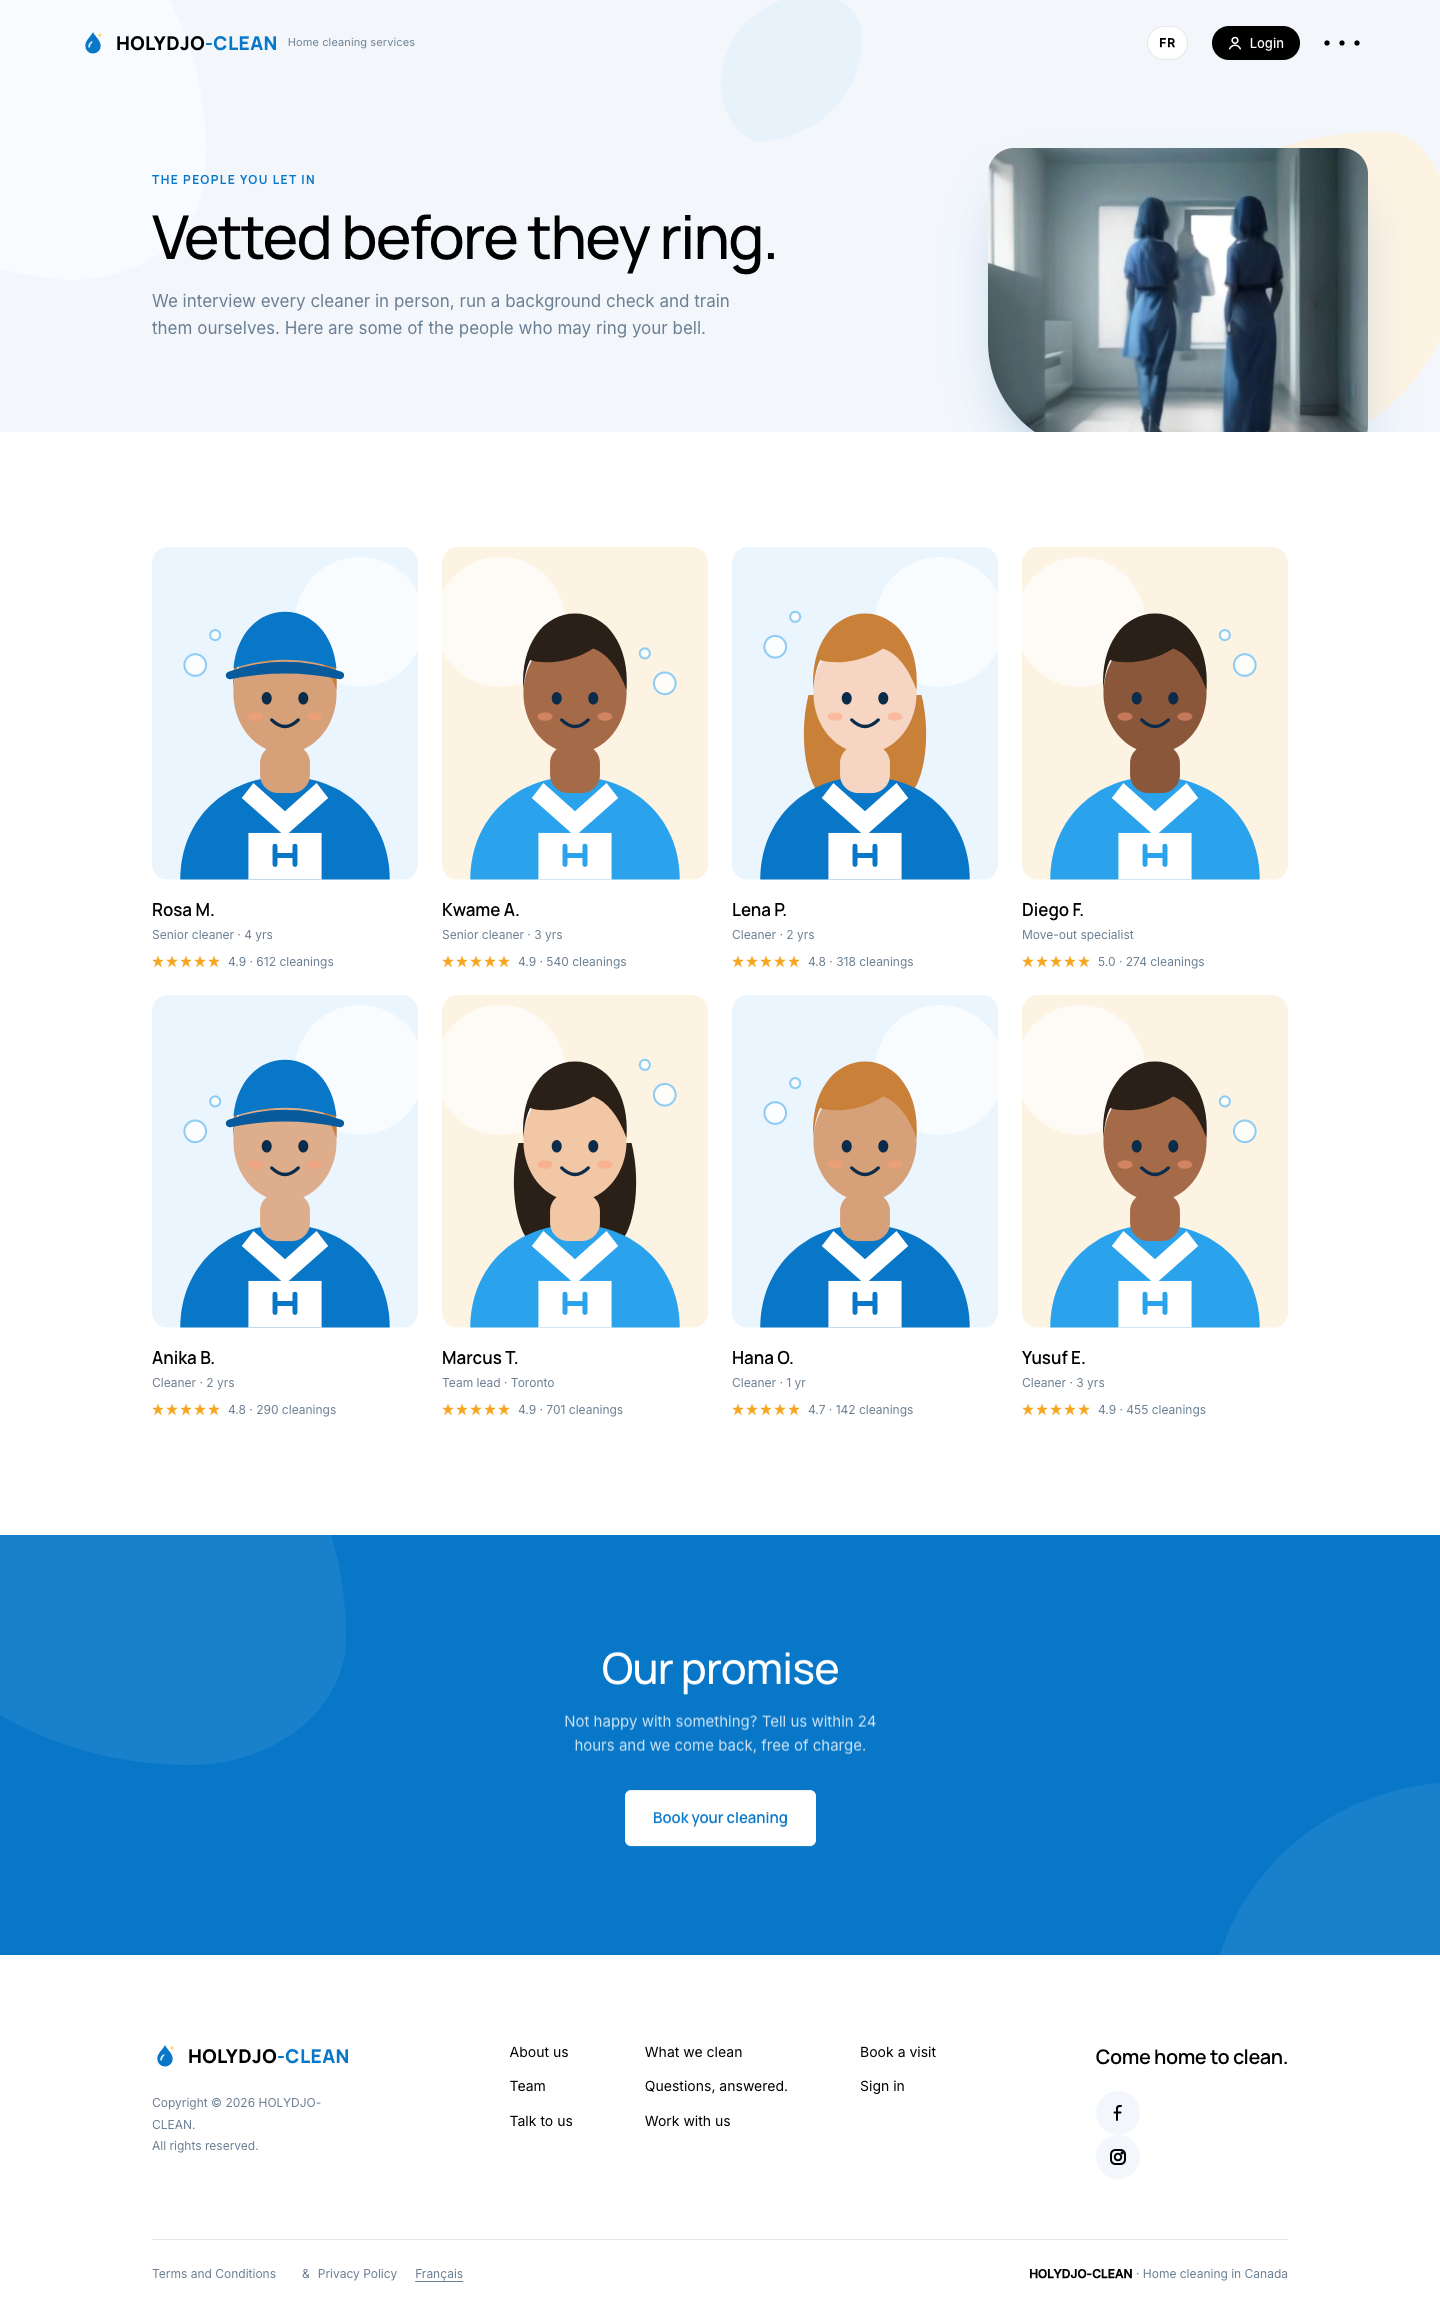
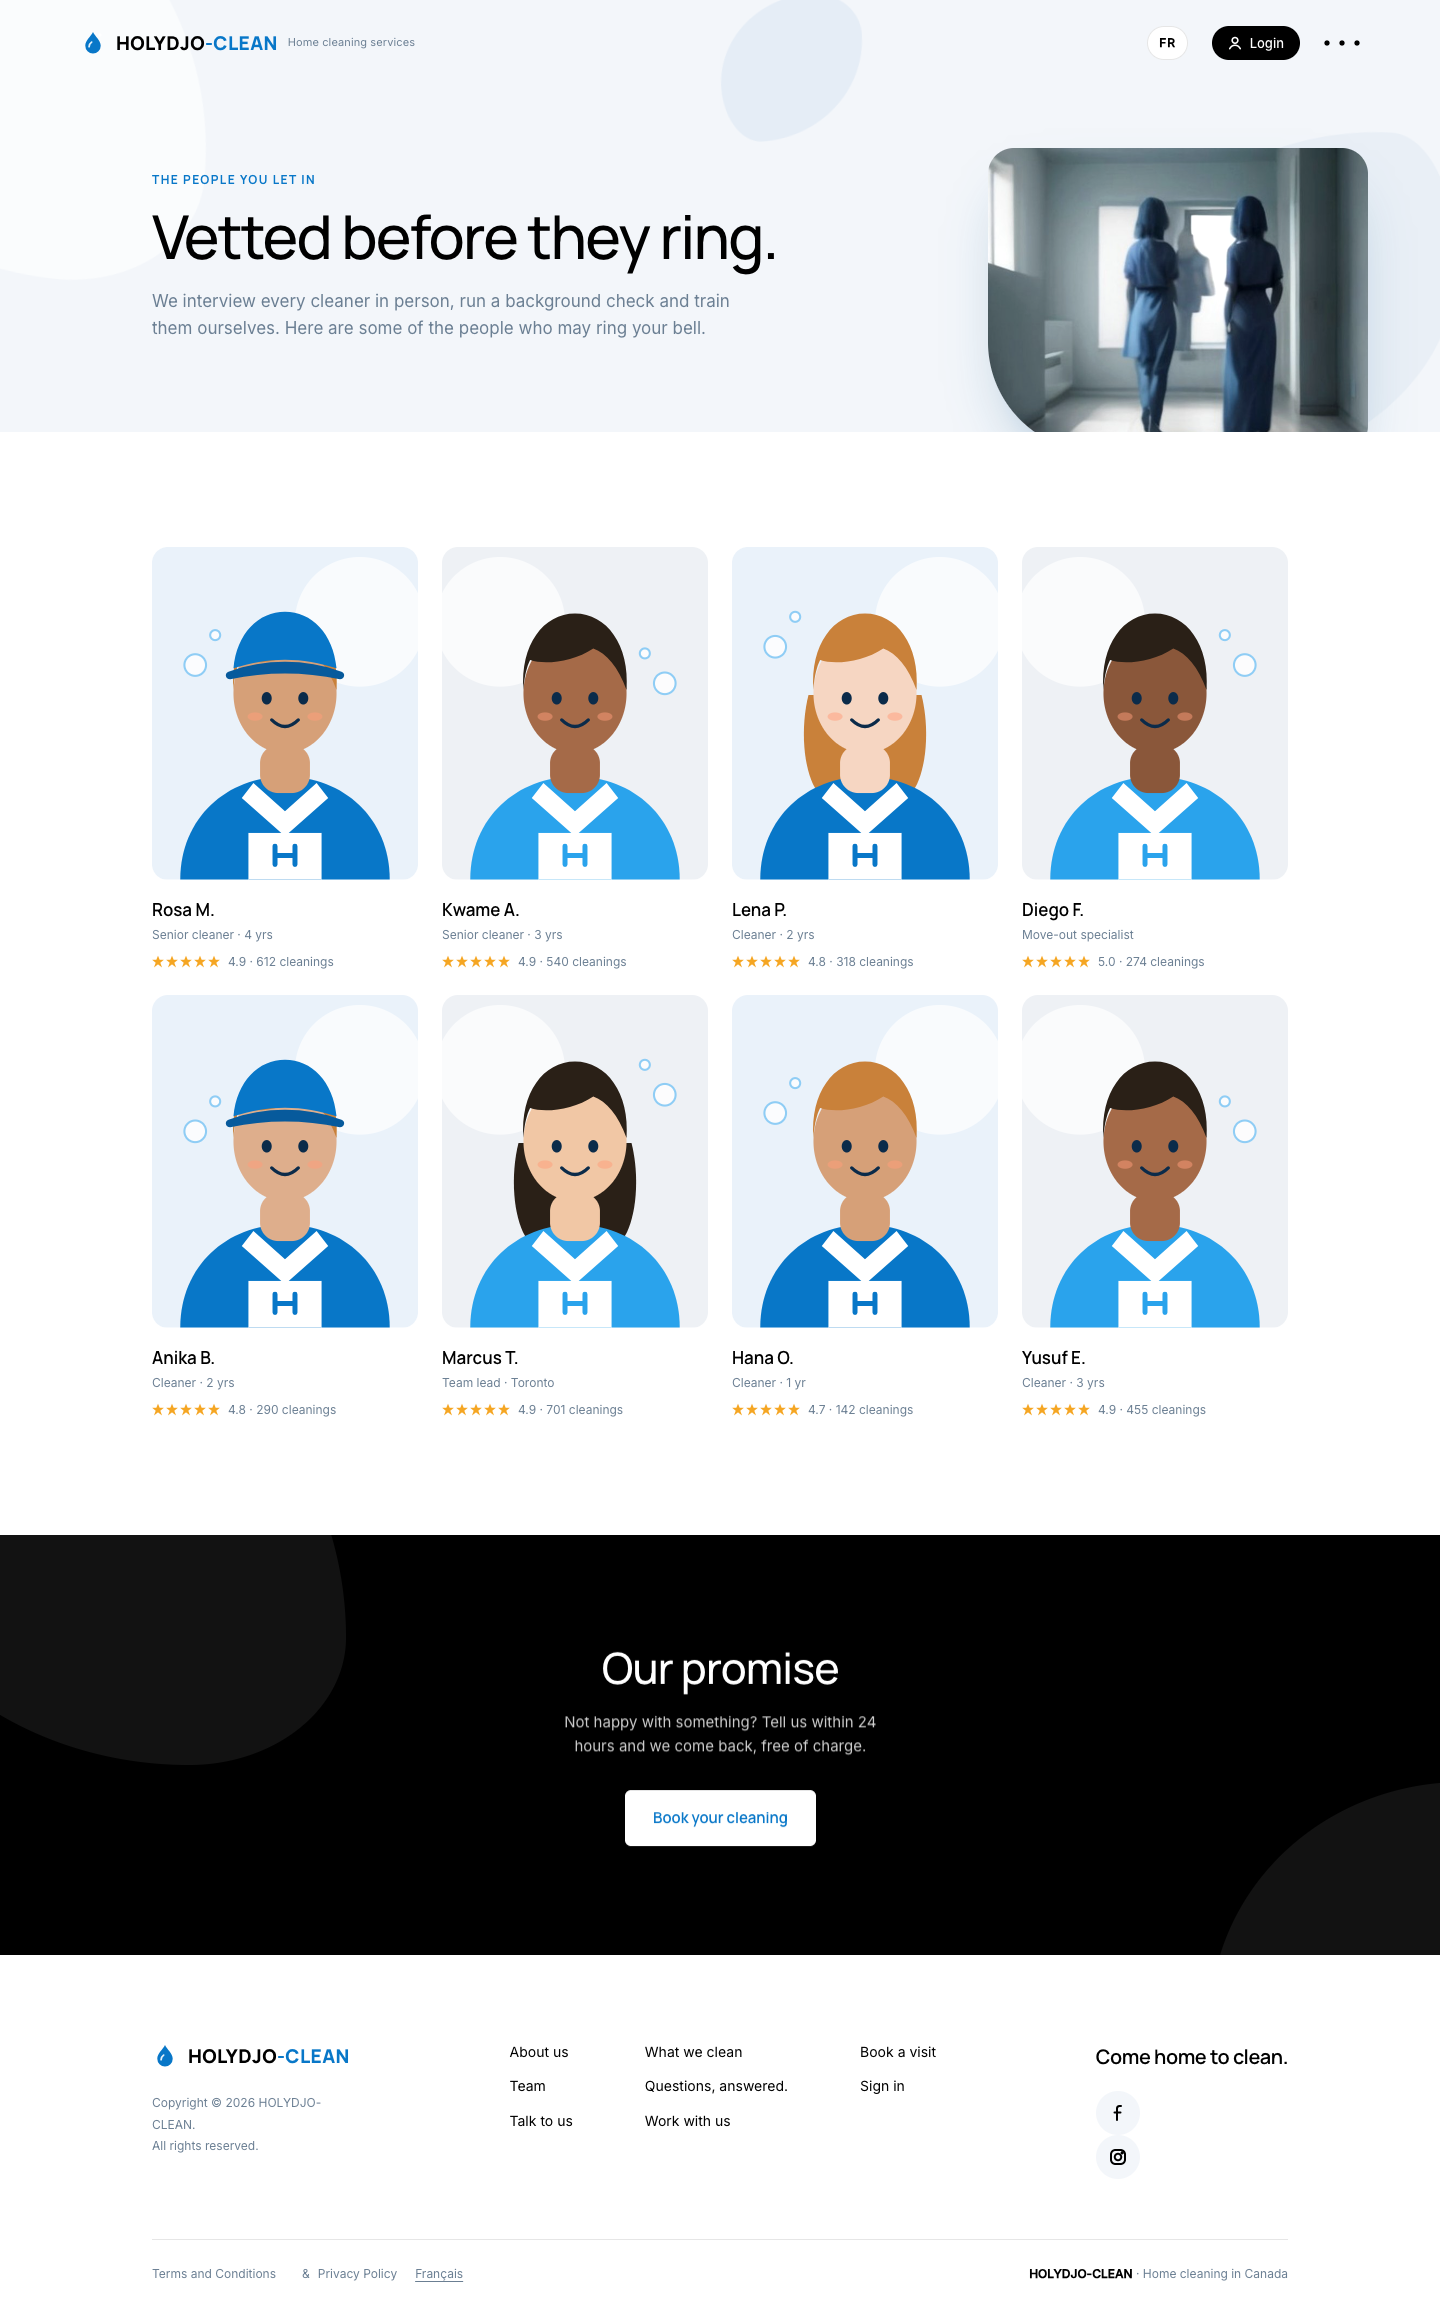
Switch the brand to blue and black
Use black for the closing CTA band and cool grey-blue tints in place of
the cream and sunny accent. Recolour the mascot's mop, sparkles, avatars
and favicon to the blue/black palette, and give the photographs a cool
blue grade. Refresh the report and screenshots.

Changed region(s): [[0.0, 0.652, 1.0, 0.8693]]

diff --git a/src/illustrations.js b/src/illustrations.js
@@ -3,11 +3,11 @@
   Every picture on the site is drawn here from scratch for the brand:
   a sky-blue water-drop mascot with a mop, three scenes, feature icons,
   team portraits, the logo mark and the loader mark.
-  Palette: sky blue #0877c8 / #4db8f5 / #a9e2ff, white, and a sunny accent #ffd36b.
+  Palette: blue #0877c8 / #4db8f5 / #a9e2ff, black #000 and white.
 */
 
 /* Logo mark: a water drop with a shine. Coloured by CSS through currentColor. */
-export const logoMark = `<svg class="mark" viewBox="0 0 32 32" xmlns="http://www.w3.org/2000/svg" aria-hidden="true"><path d="M16 2.5c-2.6 5.6-9.5 10.4-9.5 17a9.5 9.5 0 0019 0c0-6.600-6.900-11.400-9.500-17z" fill="currentColor"/><path d="M11.200 20.500c0-2.400 1.300-4.300 3.100-5.600" fill="none" stroke="#fff" stroke-width="2.200" stroke-linecap="round" opacity=".9"/><path d="M24.500 3l.9 2.300 2.300.9-2.300.9-.9 2.300-.9-2.300-2.300-.9 2.300-.9z" fill="#ffd36b"/></svg>`;
+export const logoMark = `<svg class="mark" viewBox="0 0 32 32" xmlns="http://www.w3.org/2000/svg" aria-hidden="true"><path d="M16 2.5c-2.6 5.6-9.5 10.4-9.5 17a9.5 9.5 0 0019 0c0-6.600-6.900-11.400-9.500-17z" fill="currentColor"/><path d="M11.200 20.500c0-2.400 1.300-4.300 3.100-5.600" fill="none" stroke="#fff" stroke-width="2.200" stroke-linecap="round" opacity=".9"/><path d="M24.500 3l.9 2.300 2.300.9-2.300.9-.9 2.300-.9-2.300-2.300-.9 2.300-.9z" fill="#fff"/></svg>`;
 
 /* Mascot: "Djo", a water drop in a white apron holding a mop. */
 export const mascot = `
@@ -19,9 +19,9 @@ export const mascot = `
       <stop offset="1" stop-color="#1c95e3"/>
     </linearGradient>
     <linearGradient id="m-pole" x1="0" y1="0" x2="1" y2="0">
-      <stop stop-color="#f0b03a"/>
-      <stop offset=".5" stop-color="#ffe7ad"/>
-      <stop offset="1" stop-color="#e59f24"/>
+      <stop stop-color="#2b2b2b"/>
+      <stop offset=".5" stop-color="#9aa4ad"/>
+      <stop offset="1" stop-color="#0b0b0b"/>
     </linearGradient>
     <linearGradient id="m-apron" x1="0" y1="0" x2="0" y2="1">
       <stop stop-color="#ffffff"/>
@@ -110,7 +110,7 @@ export const mascot = `
   </g>
 
   <!-- sparkles -->
-  <g class="m-spark" fill="#ffd36b">
+  <g class="m-spark" fill="#0877c8">
     <path d="M500 462l6 16 16 6-16 6-6 16-6-16-16-6 16-6z"/>
     <path d="M196 96l5 13 13 5-13 5-5 13-5-13-13-5 13-5z"/>
     <path d="M40 330l4 11 11 4-11 4-4 11-4-11-11-4 11-4z"/>
@@ -182,7 +182,7 @@ export function portrait(seed, tone = '#0877c8') {
   const hairs = ['#2a2017', '#5a3b22', '#0b2b4a', '#c9813a', '#151515', '#8c4a2f'];
   const skin = skins[seed % skins.length];
   const hair = hairs[(seed * 3) % hairs.length];
-  const bg = seed % 2 ? '#eaf5fd' : '#fdf3e3';
+  const bg = seed % 2 ? '#eaf2fa' : '#eef1f5';
   const long = seed % 3 === 0;
   const cap = seed % 4 === 1;
   return `
@@ -234,5 +234,5 @@ export const loaderMark = `
   <ellipse cx="62" cy="174" rx="10" ry="6" fill="#ff9d7a" opacity=".6"/>
   <ellipse cx="142" cy="174" rx="10" ry="6" fill="#ff9d7a" opacity=".6"/>
   <path d="M88 176q14 18 28 0z" fill="#0b2b4a"/>
-  <path d="M164 40l5 13 13 5-13 5-5 13-5-13-13-5 13-5z" fill="#ffd36b"/>
+  <path d="M164 40l5 13 13 5-13 5-5 13-5-13-13-5 13-5z" fill="#8fcdf5"/>
 </svg>`;

diff --git a/src/styles/main.css b/src/styles/main.css
@@ -1,6 +1,6 @@
 /* ------------------------------------------------------------------
    HOLYDJO-CLEAN — design system
-   Sky blue #0877c8 on an airy blue-white #f4f8fd, with a sunny accent.
+   Blue #0877c8 and black #000 on an airy blue-white canvas.
    Soft organic blobs, geometric headings, pill controls.
 ------------------------------------------------------------------- */
 
@@ -8,12 +8,12 @@
   --blue: #0877c8;
   --blue-dark: #075a9c;
   --blue-light: #8fcdf5;
-  --bg: #f3f7fc;
-  --bg-2: #f8fbff;
-  --bg-3: #e8f2fb;
-  --rose: #fdf3e3;
-  --pink: #ffe2ad;
-  --sun: #ffd36b;
+  --bg: #f3f6fa;
+  --bg-2: #fafcfd;
+  --bg-3: #e5edf6;
+  --rose: #e9eff6;
+  --pink: #dbe8f4;
+  --sun: #0877c8;
   --ink: #000;
   --ink-2: #393939;
   --muted: #6b7f93;
@@ -1171,6 +1171,7 @@ p {
   width: 100%;
   height: 100%;
   object-fit: cover;
+  filter: saturate(0.8) contrast(1.04) brightness(1.01);
 }
 
 .section-half-color .color-block .illus .photo-img {
@@ -1197,7 +1198,7 @@ p {
   content: '';
   position: absolute;
   inset: 0;
-  background: linear-gradient(155deg, rgba(8, 119, 200, 0.08), rgba(255, 226, 173, 0.1));
+  background: linear-gradient(155deg, rgba(8, 119, 200, 0.12), rgba(0, 0, 0, 0.08));
   mix-blend-mode: soft-light;
   pointer-events: none;
 }
@@ -1428,7 +1429,7 @@ p {
 }
 
 .section-booking .blue {
-  background: var(--blue);
+  background: var(--ink);
   color: var(--white);
   min-height: 420px;
   display: flex;

diff --git a/REMAKE_REPORT.md b/REMAKE_REPORT.md
@@ -6,7 +6,7 @@
   Mention, 1 May 2019.
 - **Target repository:** <https://github.com/Holydjo/CLEANINGDEEPSEEK>
 - **Remake:** HOLYDJO-CLEAN, a home cleaning company in Canada.
-- **Completed:** 19 November 2026.
+- **Completed:** 20 November 2026.
 
 The reference is used as a design study only. No Oboosho photograph, illustration, person,
 logo, or copy is used on the site. The only places the name Oboosho appears are this report,
@@ -46,10 +46,12 @@ navigation and the section names in the bundle.
 
 ### Brand and palette
 
-The brief's colour field was blank. The remake uses the palette already established for
-HOLYDJO-CLEAN in its repository: sky blue `#0877c8`, deep blue `#075a9c`, pale blue `#8fcdf5`,
-warm sun `#ffd36b`, and an airy blue-white canvas `#f3f7fc`. The reference's indigo, lavender
-and rose are not used as brand colours.
+The brief specifies blue and black. No hex values were supplied, so the remake uses the
+established HOLYDJO-CLEAN blue `#0877c8`, deep blue `#075a9c`, pale blue `#8fcdf5` and black
+`#000000` on an airy blue-white canvas `#f3f6fa`. The first draft's sunny third accent has been
+removed; the photographic grade is cool daylight, and black carries the booking bar, login pill
+and the closing CTA band. The reference's indigo, lavender and rose are not used as brand
+colours.
 
 ### Copy
 
@@ -80,7 +82,7 @@ the repository and no hotlink to Oboosho or Awwwards.
 | Slot | Reference picture | New picture | Shape, light and colour |
 | --- | --- | --- | --- |
 | Hero, right | Glossy 3D purple dinosaur with a vacuum, bottom-anchored, soft studio shadow | “Djo”, an original water-drop mascot in an apron with a mop, bottom-anchored, soft blue shadow | Same tall right-hand placement and bottom crop; same soft studio falloff; brand blue instead of purple |
-| Meet, right | `clean.jpg`, a cleaning scene in the colour block | New sunlit living room, linen sofa and plant, 5:4 card | Same right-hand colour-block slot; warm window light with cool shadows |
+| Meet, right | `clean.jpg`, a cleaning scene in the colour block | New sunlit living room, linen sofa and plant, 5:4 card | Same right-hand colour-block slot; soft window light with a cool grade |
 | Services, left | Cleaning still life in a tall frame | New close-up of a gloved hand polishing a table with a blue cloth, 4:5 | Same tall portrait slot; soft daylight, blue accent |
 | Cleaners, right | `hand.png`, a cut-out cleaning hand | New pair of cleaners in blue uniforms, seen from behind, in a circle | Same circular right-hand slot; natural light, anonymous faces |
 | Features | Four outlined icons | Four new two-tone icons (booking, shield, key, price tag) | Same grid, same optical weight |
@@ -94,7 +96,7 @@ the repository and no hotlink to Oboosho or Awwwards.
 
 The picture set is documented in [docs/PICTURES.md](./docs/PICTURES.md). The scene photographs
 were generated for this project with an open text-to-image model, then cropped to the slot and
-colour-graded. The brief supplied no photo folder and none was present in the workspace, so the
+colour-graded for the blue and black brand. The brief supplied no photo folder and none was present in the workspace, so the
 photographs are stand-ins for the client's own team and client photography. They can be replaced
 file-for-file in `public/photos/` without layout changes. The mascot, logo, icons and team
 avatars are original vector drawings; the avatars are illustrations, not photographs of real

diff --git a/README.md b/README.md
@@ -43,7 +43,7 @@ Lenis for smooth scrolling. No framework and no backend.
 
 - **Name and logo.** The name and the logo wordmark are set in `brand` in `src/data.js`. The
   water-drop logo mark is `logoMark` in `src/illustrations.js`.
-- **Colours.** Sky blue and white with a sunny accent. The tokens are at the top of
+- **Colours.** Blue and black on white and cool grey. The tokens are at the top of
   `src/styles/main.css`.
 - **Typefaces.** Manrope and Inter, loaded from Google Fonts.
 
@@ -51,9 +51,10 @@ Lenis for smooth scrolling. No framework and no backend.
 | --- | --- | --- |
 | `--blue` | `#0877c8` | Buttons, links, logo |
 | `--blue-dark` | `#075a9c` | Hover and deep accents |
-| `--blue-light` | `#8fcdf5` | Outlines and soft accents |
-| `--bg` | `#f3f7fc` | Page tint |
-| `--pink` | `#ffe2ad` | Sunny accent blob |
+| `--blue-light` | `#8fcdf5` | Outlines, icons and soft accents |
+| `--ink` | `#000000` | Type, booking bar, login pill, CTA band |
+| `--bg` | `#f3f6fa` | Page tint |
+| `--rose` | `#e9eff6` | Cool note and blob tint |
 
 ## Pictures
 

diff --git a/docs/PICTURES.md b/docs/PICTURES.md
@@ -4,7 +4,7 @@ Every picture on this site was made for HOLYDJO-CLEAN. No Oboosho photograph, il
 person, logo or text is used.
 
 The scene photographs are new, art-directed images generated for this remake with an open
-text-to-image model, then cropped and colour-graded for the slot. The brief supplied no photo
+text-to-image model, then cropped and colour-graded for the slot and the blue and black brand. The brief supplied no photo
 folder, so these are stand-ins for the real team and client photography. Replace a file with a
 real photograph at the same path and aspect ratio and the layout will hold.
 
